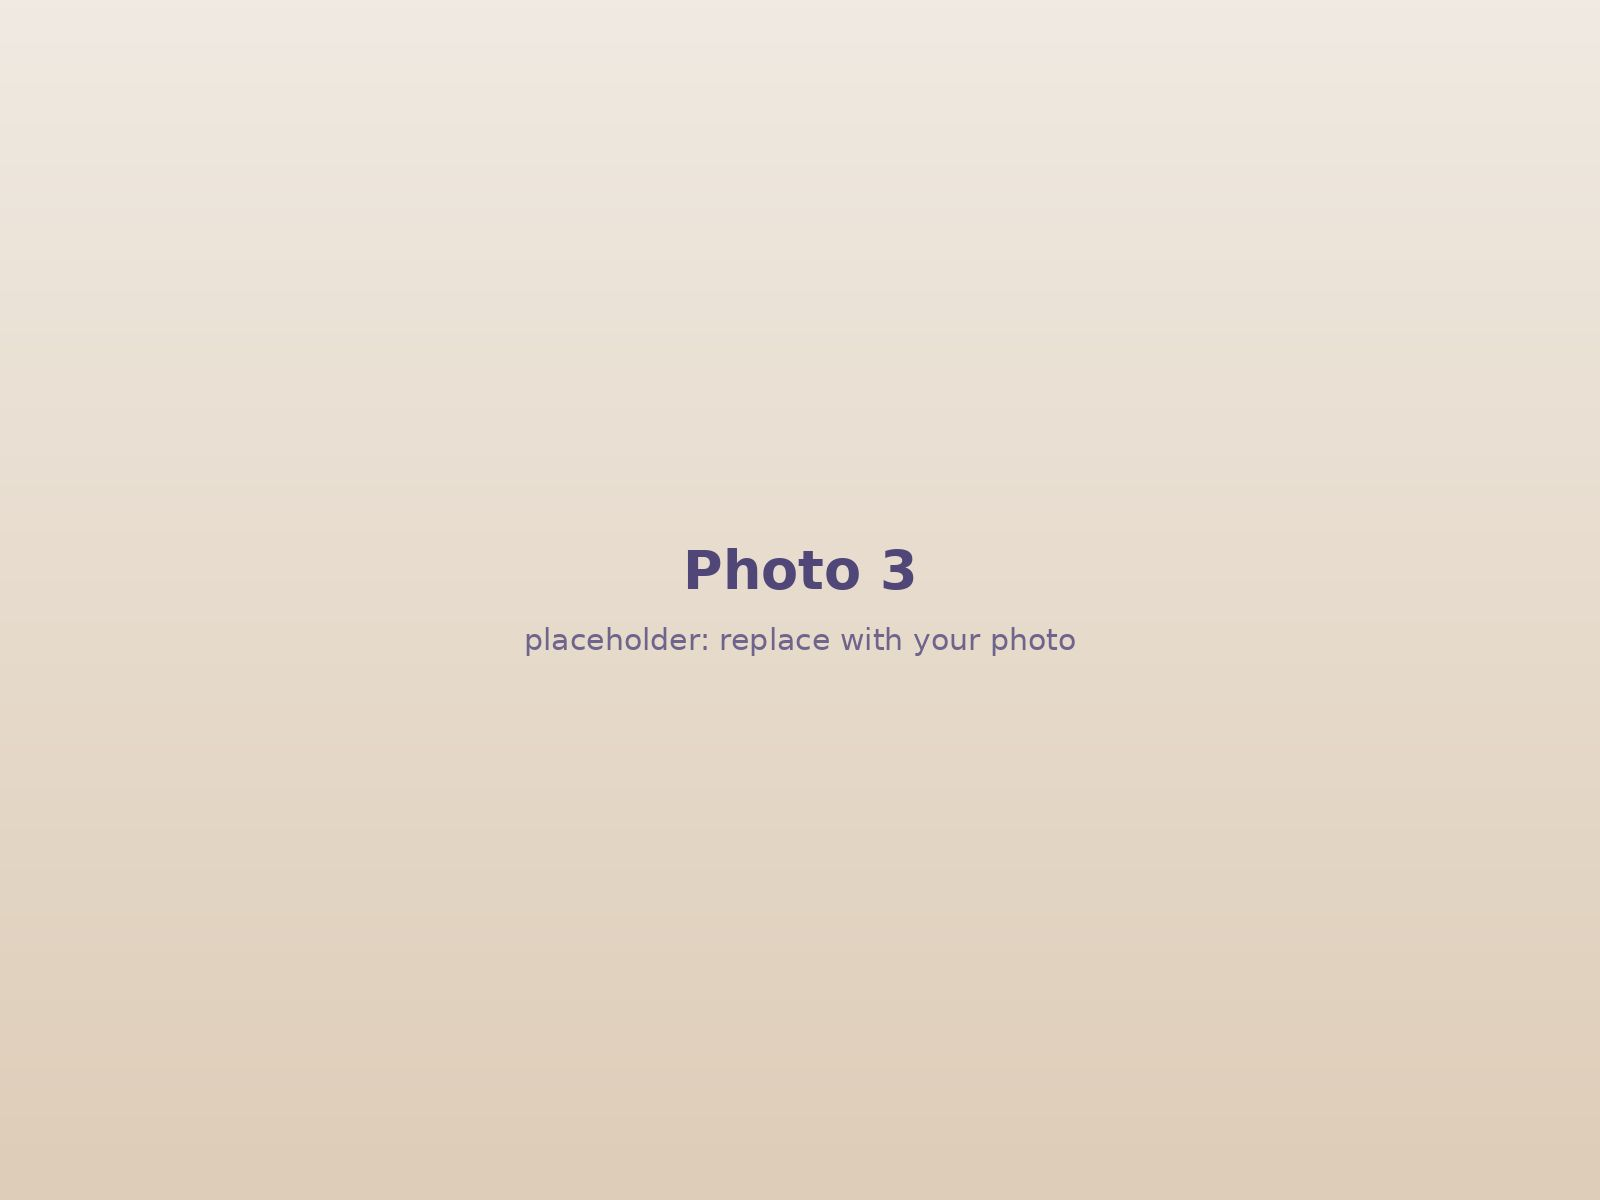
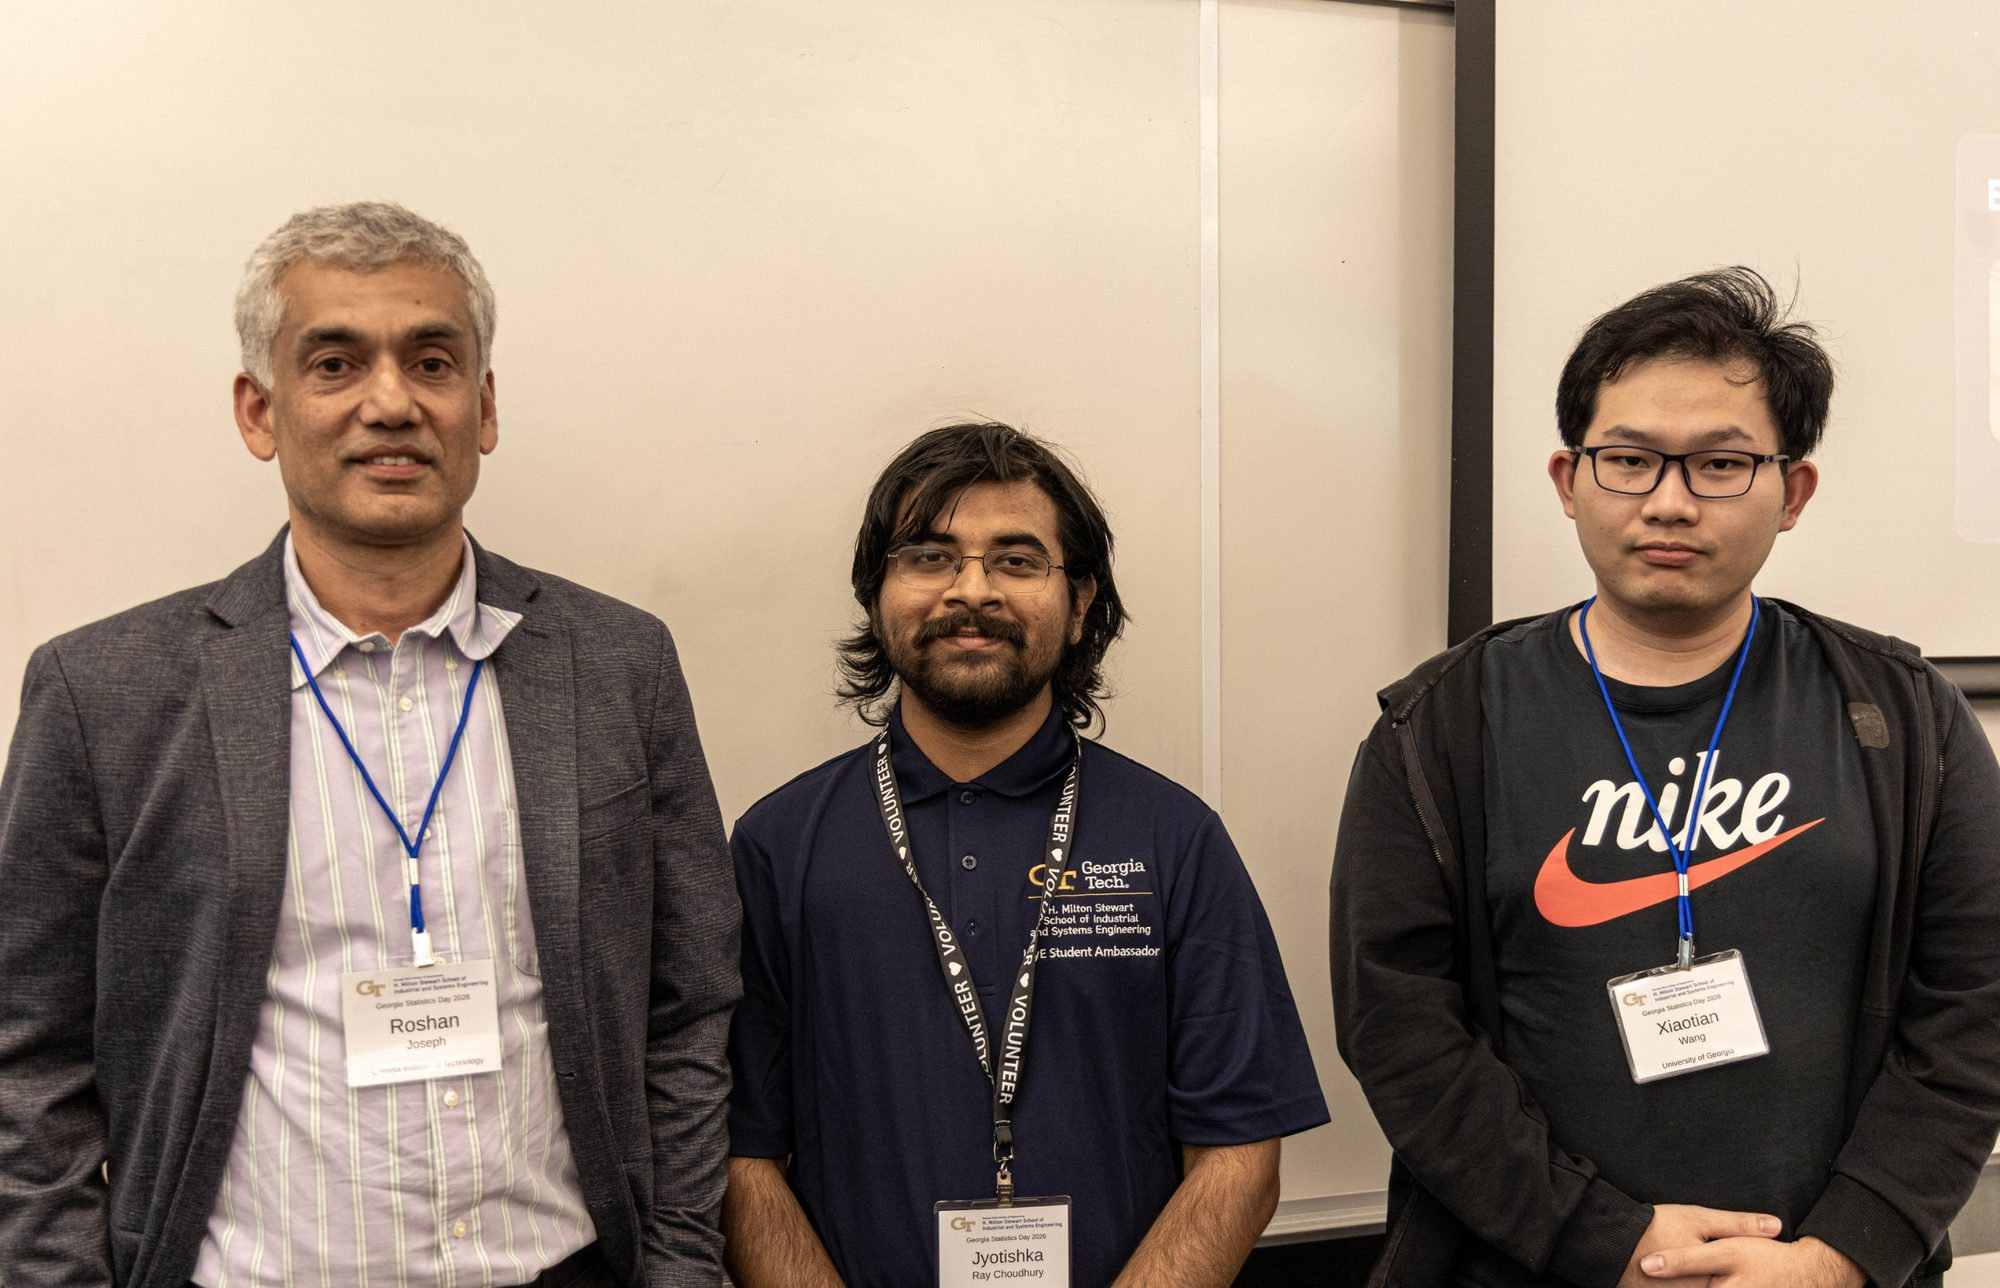
News: real Georgia Statistics Day photos (thumbnails + full size, metadata stripped), uncropped row
Claude-Session: https://claude.ai/code/session_01K9rh9QkoucmSPEsKHBCBwq

diff --git a/index.html b/index.html
@@ -263,9 +263,9 @@
                                 <div class="news-gallery" id="gsd-2026-photos" aria-hidden="true" inert>
                                     <div class="news-gallery-inner">
                                         <!-- Up to a few photos; each opens in a full-size viewer. Put files in images/news/. -->
-                                        <button type="button" class="news-thumb"><img src="images/news/gsd-2026-1.jpg" alt="Georgia Statistics Day 2026, photo 1" loading="lazy"></button>
-                                        <button type="button" class="news-thumb"><img src="images/news/gsd-2026-2.jpg" alt="Georgia Statistics Day 2026, photo 2" loading="lazy"></button>
-                                        <button type="button" class="news-thumb"><img src="images/news/gsd-2026-3.jpg" alt="Georgia Statistics Day 2026, photo 3" loading="lazy"></button>
+                                        <button type="button" class="news-thumb" style="--ar: 1.962" data-full="images/news/gsd-2026-1.jpg"><img src="images/news/gsd-2026-1-thumb.jpg" alt="Group photo with faculty and fellow researchers at Georgia Statistics Day 2026" width="706" height="360" loading="lazy"></button>
+                                        <button type="button" class="news-thumb" style="--ar: 1.51" data-full="images/news/gsd-2026-2.jpg"><img src="images/news/gsd-2026-2-thumb.jpg" alt="Presenting my poster at Georgia Statistics Day 2026" width="544" height="360" loading="lazy"></button>
+                                        <button type="button" class="news-thumb" style="--ar: 1.553" data-full="images/news/gsd-2026-3.jpg"><img src="images/news/gsd-2026-3-thumb.jpg" alt="With Roshan Joseph and Xiaotian Wang at Georgia Statistics Day 2026" width="559" height="360" loading="lazy"></button>
                                     </div>
                                 </div>
                             </li>

diff --git a/css/news-gallery.css b/css/news-gallery.css
@@ -48,17 +48,20 @@
   transition: grid-template-rows 0.35s ease, opacity 0.25s ease, margin 0.35s ease;
 }
 .news-gallery.is-open { grid-template-rows: 1fr; opacity: 1; margin: 8px 0 4px; }
+/* photos share one row at the same height, each at its own shape (no cropping):
+   each takes width in proportion to its aspect ratio --ar (set inline) */
 .news-gallery-inner {
   min-height: 0;
   overflow: hidden;
-  display: grid;
-  grid-template-columns: repeat(3, 1fr);
+  display: flex;
   gap: 8px;
 }
 .news-thumb {
   all: unset;
   display: block;
-  aspect-ratio: 4 / 3;
+  flex: var(--ar, 1.5) 1 0;
+  min-width: 0;
+  aspect-ratio: var(--ar, 1.5);
   border-radius: 8px;
   overflow: hidden;
   cursor: zoom-in;
@@ -137,7 +140,8 @@ html.pv-lock, html.pv-lock body { overflow: hidden; }
 
 @media (max-width: 1000px) {
   .news-gallery { grid-column: 1; }
-  .news-gallery-inner { gap: 6px; }
+  .news-gallery-inner { gap: 5px; }
+  .news-thumb { border-radius: 6px; }
   .pv-btn { width: 40px; height: 40px; }
   .pv-prev { left: 8px; }
   .pv-next { right: 8px; }
